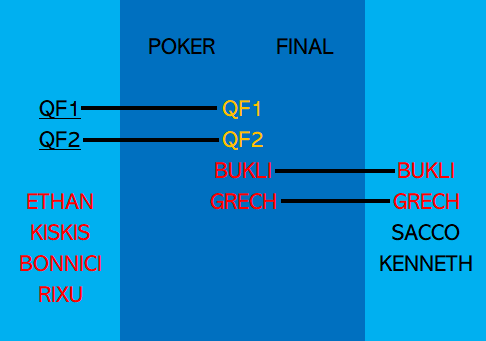
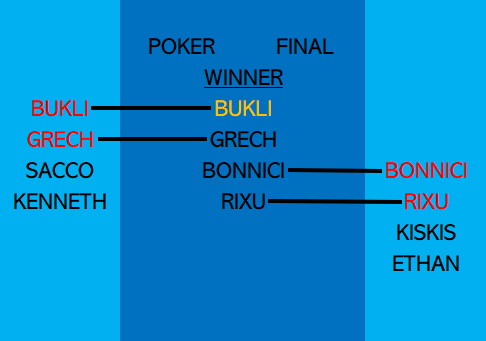
elecJan

diff --git a/tournament.html b/tournament.html
@@ -191,6 +191,27 @@
 
     <div class="content">
         <div class="olympics-header">Quad-Sport Tournament</div>
+        <div class="table-wrapper">
+            <table>
+                <thead>
+                    <tr>
+                        <th>Player</th>
+                        <th>Points</th>
+                    </tr>
+                </thead>
+                <tbody>
+                    <tr><td>Grech</td><td>10</td></tr>
+                    <tr><td>Bukli</td><td>9</td></tr>
+                    <tr><td>Sacco</td><td>8</td></tr>
+                    <tr><td>Rixu</td><td>6</td></tr>
+                    <tr><td>Ethan</td><td>2</td></tr>
+                    <tr><td>Kiskis</td><td>2</td></tr>
+                    <tr><td>Bonnici</td><td>1</td></tr>
+                    <tr><td>Kenneth</td><td>0</td></tr>
+                </tbody>
+            </table>
+        </div>
+        <div class="olympics-winner">WINNER: Daniel Grech</div>
         <hr class="sport-divider">
             
         <div class="centered-title">🎱 Sport 1: Billiard</div>
@@ -226,30 +247,6 @@
         <div class="images-container">
             <div><img src="sports/poker.png" alt="Image 4" style="border: 5px solid #00ff00;"></div>
         </div>
-        <hr class="sport-divider">
-
-        <div class="olympics-header">Tournament Points</div>
-        <div class="table-wrapper">
-            <table>
-                <thead>
-                    <tr>
-                        <th>Player</th>
-                        <th>Points</th>
-                    </tr>
-                </thead>
-                <tbody>
-                    <tr><td>Grech</td><td>10</td></tr>
-                    <tr><td>Sacco</td><td>8</td></tr>
-                    <tr><td>Rixu</td><td>5</td></tr>
-                    <tr><td>Bukli</td><td>5</td></tr>
-                    <tr><td>Ethan</td><td>2</td></tr>
-                    <tr><td>Kiskis</td><td>2</td></tr>
-                    <tr><td>Bonnici</td><td>0</td></tr>
-                    <tr><td>Kenneth</td><td>0</td></tr>
-                </tbody>
-            </table>
-        </div>
-        <div class="olympics-winner">WINNER: _________</div>
     </div>    
 </body>
 </html>

diff --git a/index.html b/index.html
@@ -355,7 +355,7 @@
     	</button>
 	</a>
 -->
-<!--
+
     <div style="
         background-color: #000000;
         color: #00ff00;
@@ -369,10 +369,11 @@
         box-shadow: 0 0 15px #00ff00;
         animation: pulse 2s infinite;
         ">
-            Only POKER remains in the Quad-Sport Tournament!<br><br>
+            Daniel Grech WINS the Quad-Sport Tournament!<br><br>
             <span style="color: gold;">Sacco wins in Billiard</span><br><br>
             <span style="color: gold;">Rixu wins in Darts</span><br><br>
             <span style="color: gold;">Grech wins in Table Tennis</span><br><br>
+            <span style="color: gold;">Bukli wins in Poker</span><br><br>
             <a href="tournament.html">
                 <button style="background-color: #000000;
                     color: #00ff00;
@@ -388,7 +389,7 @@
                 </button>
             </a>
     </div>
--->
+
 <!--
     <div style="border: 2px solid #00ff00; border-radius: 12px; padding: 20px; background-color: #eaffea; box-shadow: 0 0 15px #00ff00; max-width: 500px; margin: auto; text-align: center; font-family: Arial, sans-serif;">
         <h3 style="color: #00cc00; font-size: 1.8em; margin-bottom: 10px;">🎯 Whac-A-Mole Game is LIVE! 🎯</h3>

diff --git a/games.html b/games.html
@@ -112,6 +112,7 @@
         PLAY BLACKJACK
             </button>
     <br><br>
+    <!--
         <a href="predictor.html">
             <button style="background-color: #000000;
             color: #00ff00;
@@ -125,6 +126,7 @@
         PLAY PREDICTOR
             </button>
     <br><br>
+    -->
         <a href="reaction.html">
             <button style="background-color: #000000;
             color: #00ff00;

diff --git a/countdown.js b/countdown.js
@@ -1,5 +1,5 @@
 // Set the target date
-const targetDate = new Date("January 8, 2026 00:00:00").getTime();
+const targetDate = new Date("February 8, 2026 00:00:00").getTime();
 
 // Update the countdown every second
 const countdownTimer = setInterval(function () {
